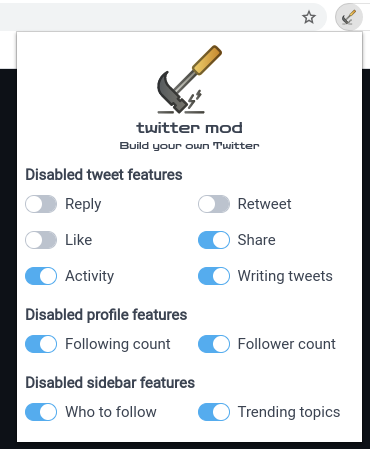
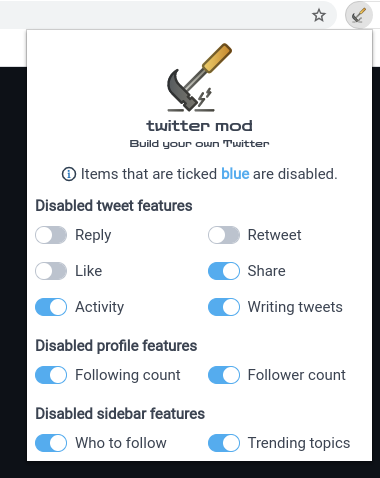
add a reminder that blue items are disabled.

diff --git a/src/html/settings-page.html b/src/html/settings-page.html
@@ -8,23 +8,28 @@
   <body>
     <div class="container" id='settings'>
       <header>
-
-          <div class="columns">
-            <div class="column col-12 text-center">
-              <a title="twitter-mod homepage" href='https://github.com/rg-3/twitter-mod.js#readme' rel='noopener' target='_blank'>
-                <img src="/images/icon128.svg" width=75 height=75>
-              </a>
-            </div>
-            <div class="column col-12 text-center">
-              <a title="twitter-mod homepage" href='https://github.com/rg-3/twitter-mod.js#readme' rel='noopener' target='_blank'>
-                twitter mod
-                <br>
-                <span class='small'>Build your own Twitter</span>
-              </a>
-            </div>
+        <div class="columns">
+          <div class="column col-12 text-center">
+            <a title="twitter-mod homepage" href='https://github.com/rg-3/twitter-mod.js#readme' rel='noopener' target='_blank'>
+              <img src="/images/icon128.svg" width=75 height=75>
+            </a>
           </div>
-        </a>
+          <div class="column col-12 text-center">
+            <a title="twitter-mod homepage" href='https://github.com/rg-3/twitter-mod.js#readme' rel='noopener' target='_blank'>
+              twitter mod
+              <br>
+              <span class='small'>Build your own Twitter</span>
+            </a>
+          </div>
+        </div>
       </header>
+
+      <section class='columns' id='help'>
+        <div class='col-12 text-center'>
+          <img src="/images/info.svg" width=16 height=16>
+          <span>Items that are ticked <strong class='blue'>blue</strong> are disabled.</span>
+        </div>
+      </section>
 
       <section>
         <div class="columns">

diff --git a/src/css/settings-page.css b/src/css/settings-page.css
@@ -42,3 +42,11 @@ header a:link, a:visited, a:active, a:hover {
 .small {
   font-size: 10px;
 }
+
+strong.blue {
+  color: #55acee;
+}
+
+section#help span , section#help img {
+  vertical-align: middle;
+}

diff --git a/README.md b/README.md
@@ -70,6 +70,8 @@ Credit is due to the following icon authors:
 
 * <a href="https://freeicons.io/profile/5790">ColourCreatype</a> on <a href="https://freeicons.io">freeicons.io</a>
 
+* <a href="https://freeicons.io/profile/3335">MD Badsha Meah</a> on <a href="https://freeicons.io">freeicons.io</a>
+
 ## <a id='source'>License</a>
 
 The MIT License, see [./src/LICENSE.txt](./src/LICENSE.txt) for details.
